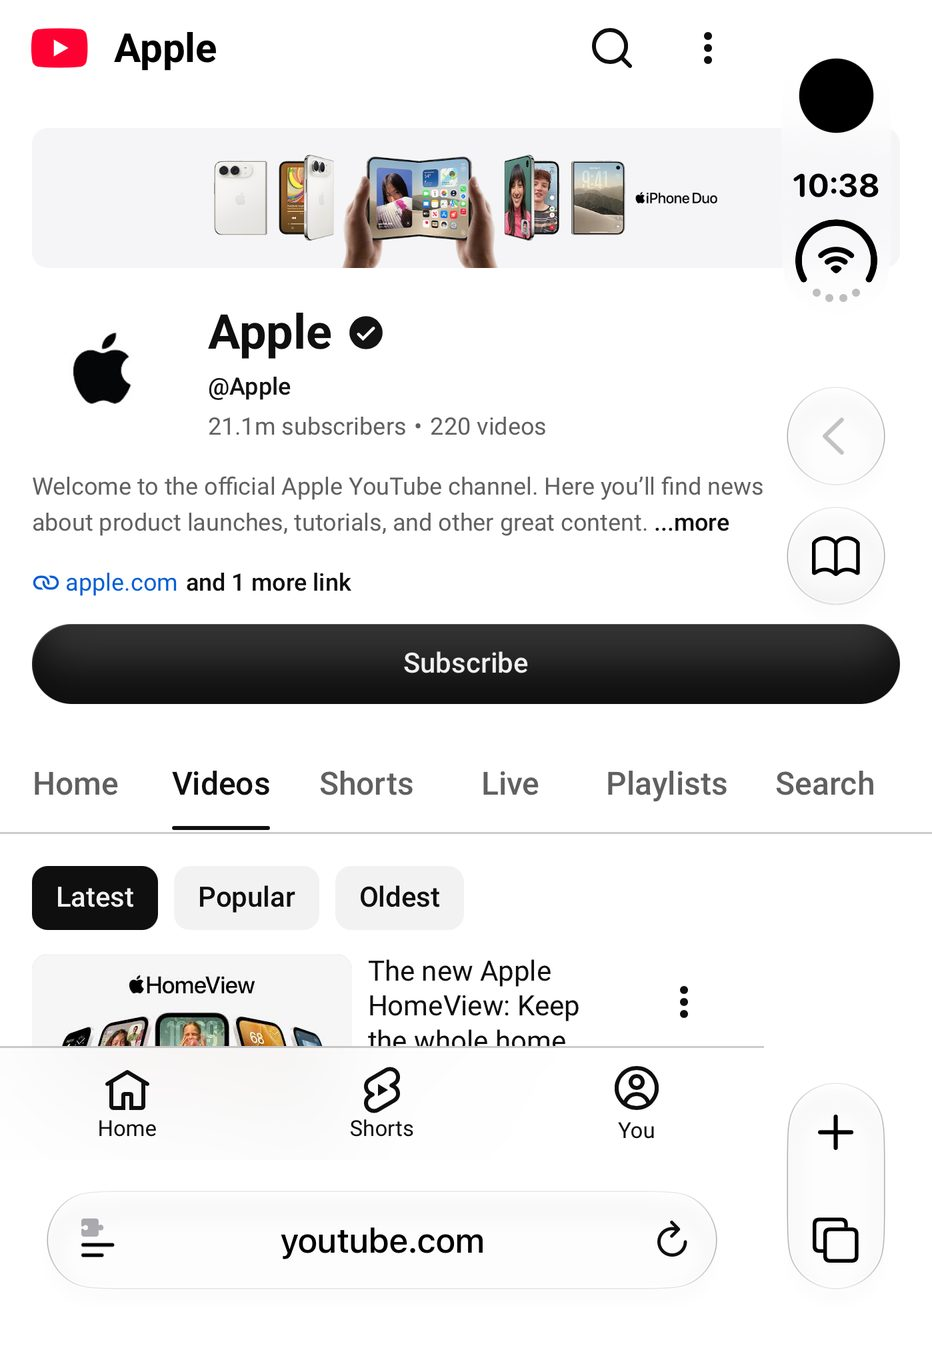
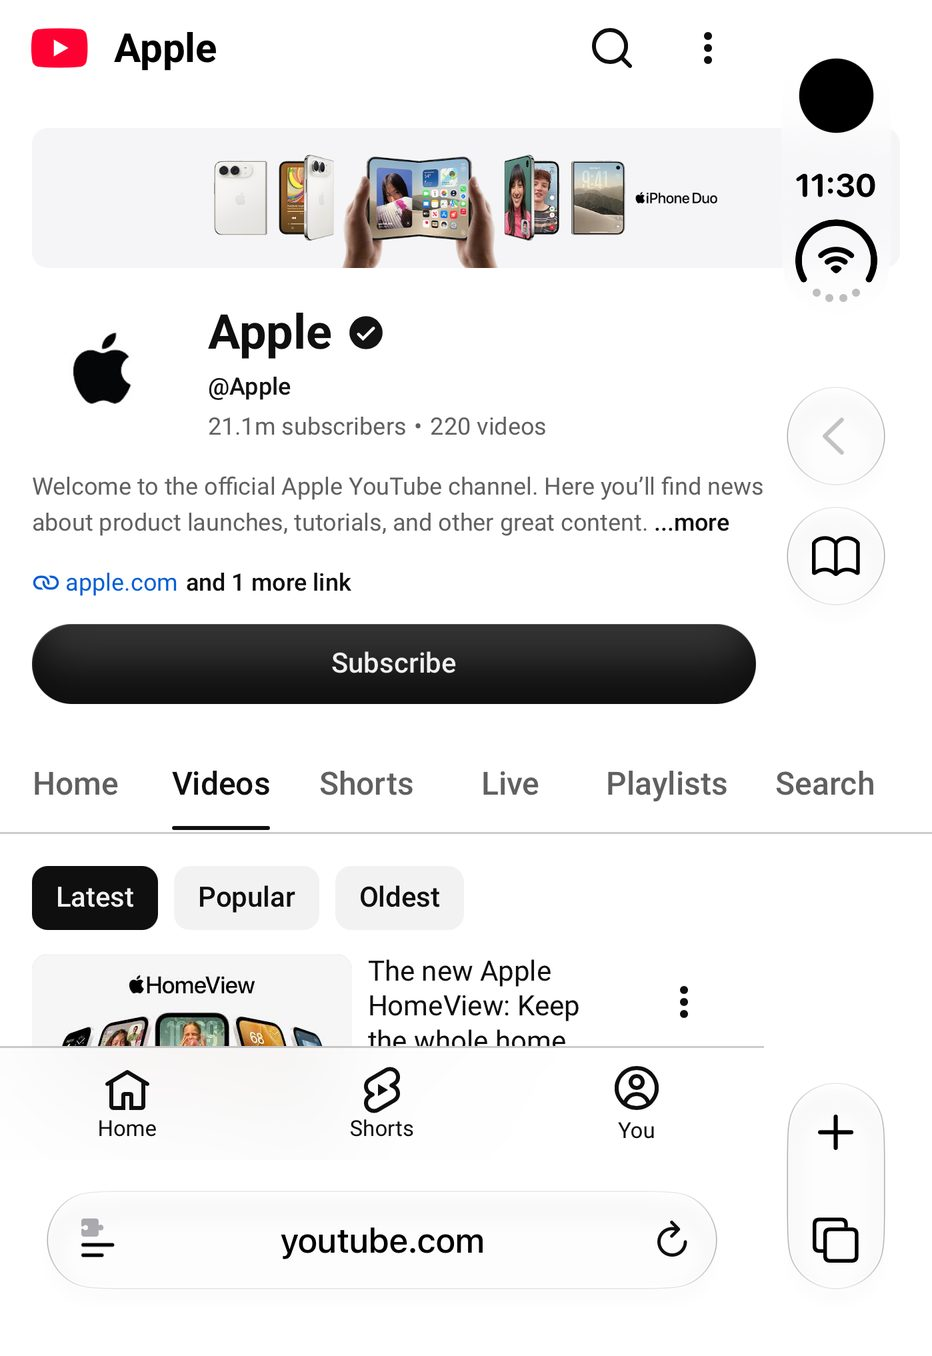
YouTube after-shot retaken with 1.0.1 (24): Subscribe stops at the strip

Changed region(s): [[0.7779, 0.4336, 0.9646, 0.5265], [0.3423, 0.4646, 0.5601, 0.4956], [0.8401, 0.1239, 0.9646, 0.1549]]

diff --git a/index.html b/index.html
@@ -76,11 +76,11 @@
         <div class="slide" data-site="YouTube">
           <div class="flip-pics">
             <img class="pic-before" src="img/youtube-before.jpg" width="932" height="1356" loading="lazy" alt="Apple's YouTube channel on the closed Duo, without Widen: the iPhone Duo banner and Subscribe button stop short of Safari's buttons">
-            <img class="pic-after" src="img/youtube-after.jpg" width="932" height="1356" loading="lazy" alt="The same channel page with Widen: the banner, Subscribe button and tabs run under Safari's buttons">
+            <img class="pic-after" src="img/youtube-after.jpg" width="932" height="1356" loading="lazy" alt="The same channel page with Widen: the banner and tabs run under Safari's buttons; the Subscribe button stops short of them">
           </div>
           <p class="slide-cap"><b>YouTube</b>
             <span class="cap-before">The banner and buttons stop short.</span>
-            <span class="cap-after">The banner and Subscribe button run under the buttons.</span></p>
+            <span class="cap-after">The banner and tabs run under the buttons.</span></p>
         </div>
       </div>
       <div class="dots" role="tablist" aria-label="Choose a website"></div>
